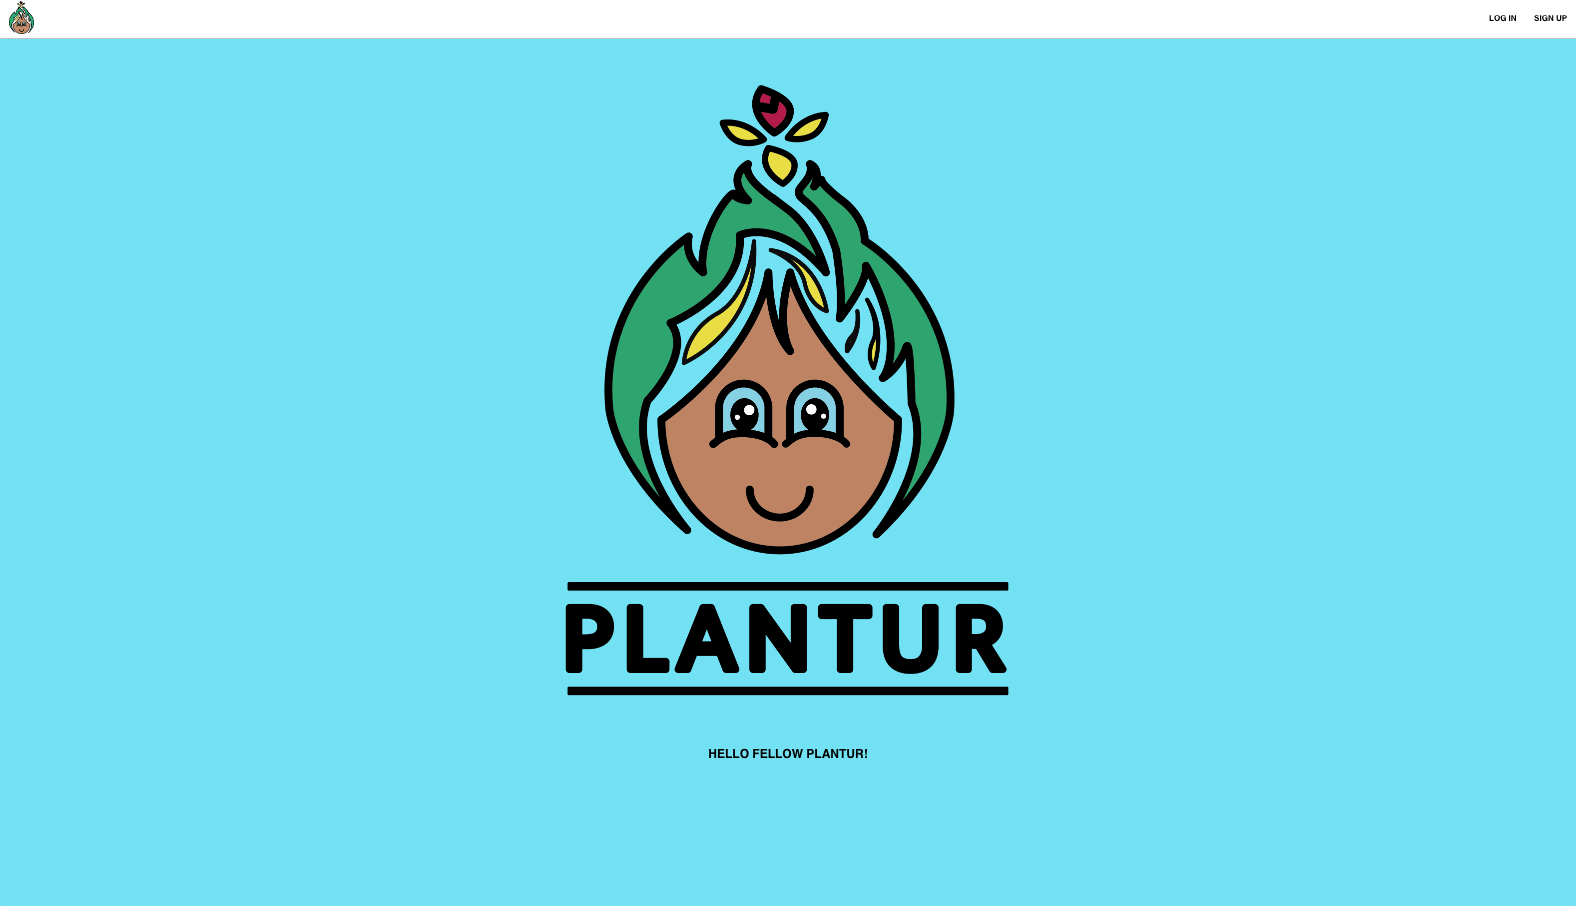
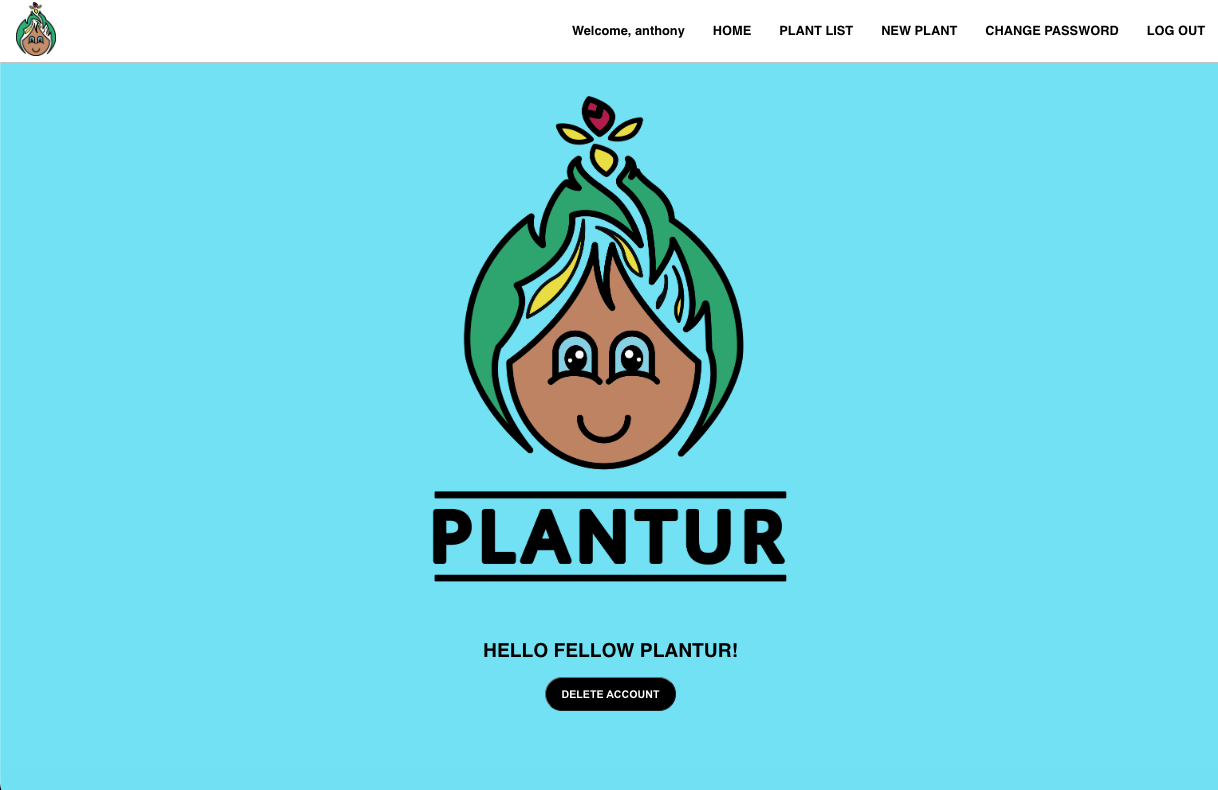
update readme

Changed region(s): [[0.0, 0.0, 1.0, 0.9114]]

diff --git a/README.md b/README.md
@@ -1,10 +1,10 @@
 # Genre Stash App!
 
-<img src="https://user-images.githubusercontent.com/118694801/213578099-f2f7a218-666a-4008-815b-cc243bae8840.png">
+<img src="./src/assets/readme.png">
 
-The "Genre Stash App" was created with avid music lovers in mind. With the ability to build and share genre knowledge all in one place while being able to stash your favorite genre's artists and albums on your personal profile. 
+The "PLANTUR" was created with any plant or plant/wannabe plant lover in mind. To help keep track of all thier plants, thier names, how much light they need and how much water they need. 
 
-# [VIEW APP SITE HERE!](https://thegenrestashapp.fly.dev/) 💾
+# [VIEW APP SITE HERE!](https://plantur.netlify.app/) 💾
 
 ## Technologies Used 👨💻
 
@@ -15,22 +15,10 @@ The "Genre Stash App" was created with avid music lovers in mind. With the abili
 - Fly.io
 - photoshop
 - Express
-- MonogDB
-- Mongoose
+- PostgreSQL
+- Sequelize
+- Netlify
 
-## [Planning Doc](https://trello.com/invite/b/IkxjAxyx/ATTI762609a28ea0ae0a98384040907fca6e68DDEBBC/genre-stash-unit-2-project) 🗒
-
-## Credits & Attributions 🙏
-
-While the below disclaimers are technically required by their license-holders I would like to also sincerely thank all the creators whose work makes this site look great. Thank you!
-
-The "Genre Stash App" uses the google font family of "Robot".
-- 'Roboto', sans-serif; @900
-
-The Icon was provided as follows:
-
-Sim Card: 
-"https://fontawesome.com/icons/hard-drive?s=regular&f=classic"
 
 ## Recent Changes 👏
 
@@ -42,8 +30,7 @@ Sim Card:
 
 ## Ice Box 🍧
 
-- [ ] Add more genre categories 
+- [ ] Add categories for when to water plants
+- [ ] Add a reminder for when to water plants
+- [ ] Include a plant API to pull plant information for you
 - [ ] Dark Mode
-- [ ] Add interactive example of genres(music, video, ect...)
-- [ ] Edit like function to user profile only
-- [ ] Add app icon to navigation bar
